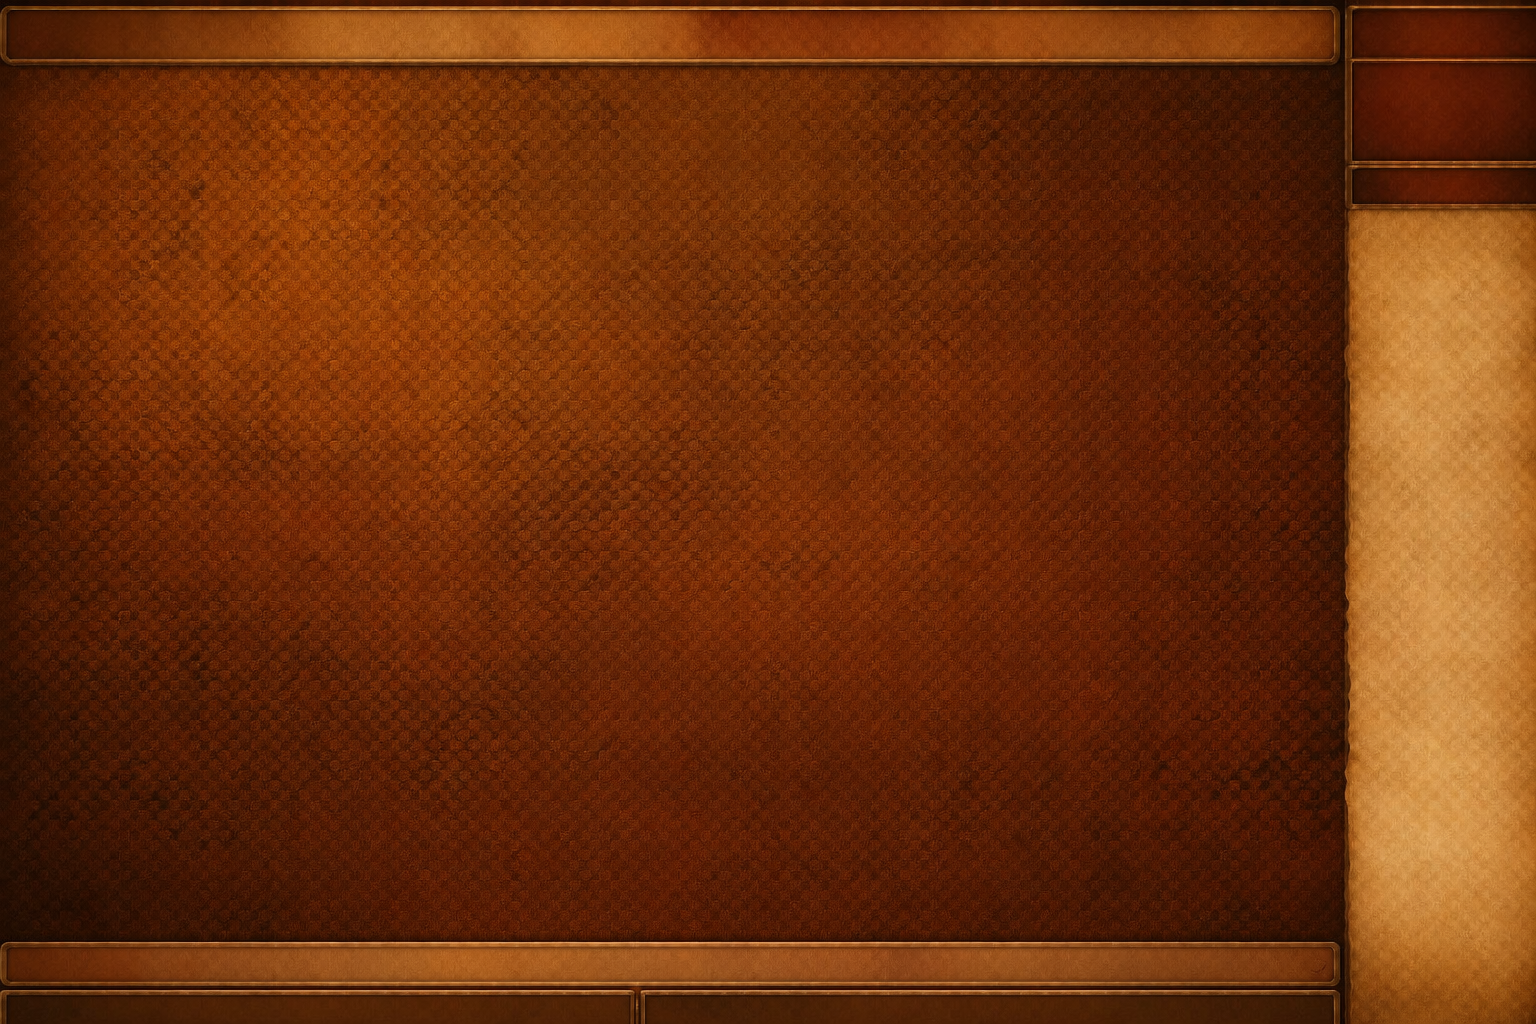
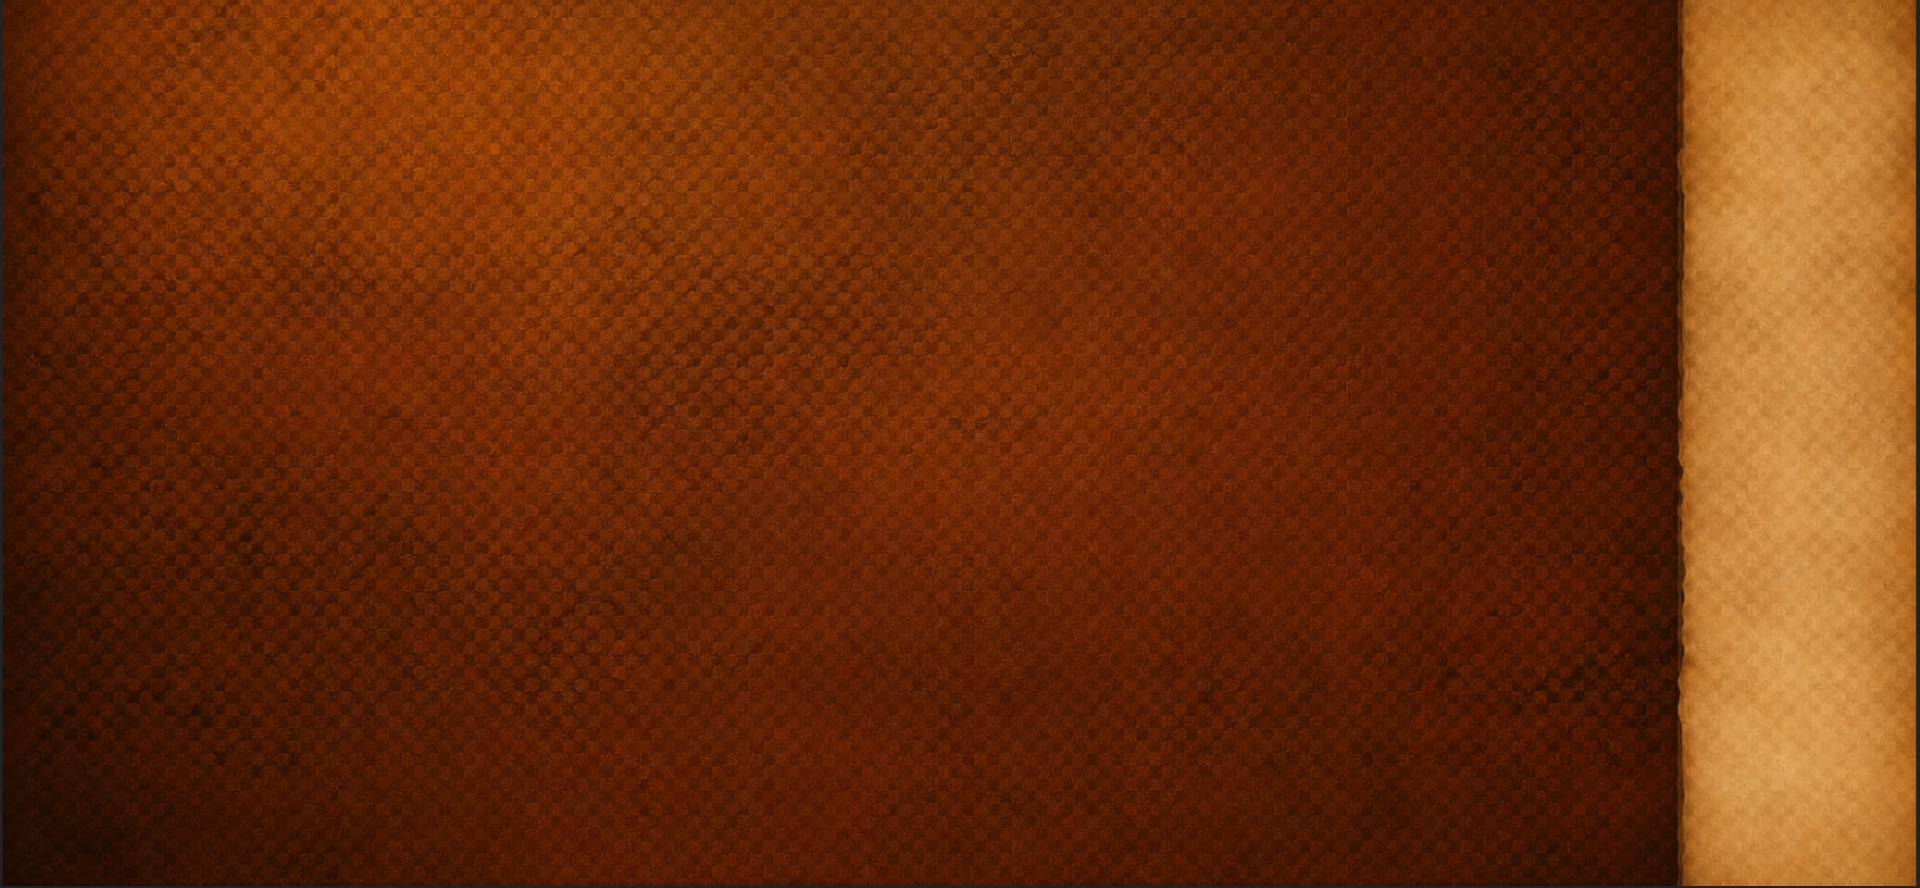
changement image fond et style d'écriture

diff --git a/index.html b/index.html
@@ -8,24 +8,31 @@
 <link href="https://fonts.googleapis.com/css2?family=Cinzel+Decorative:wght@700;900&family=Cinzel:wght@400;600;700&family=Lora:ital,wght@0,400;0,600;1,400&display=swap" rel="stylesheet">
 <style>
 
+
+
+
+
+
+
+
 .divider{text-align:center;color:var(--clay);font-family:'Cinzel',serif;font-size:10px;letter-spacing:.3em;text-transform:uppercase;position:relative;margin:14px 0;}
 .divider::before,.divider::after{content:'';position:absolute;top:50%;width:38%;height:1px;background:var(--clay);opacity:.5;}
 .divider::before{left:0;}.divider::after{right:0;}
 
 :root {
   --ink: #0A0503; --bark: #1A0E08; --earth: #2A1408; --clay: #5C3018; 
-  --mud: #B6865D; --sand: #E6C280; --gold: #E8C04A; --gold-light: #F5D878; 
+  --mud: #B6865D; --sand: #E6C280; --gold: #E8C04A; --gold-light: #F5D878; --gold-dark: #A0720A;
   --amber: #C87820; --cream: #FDF5E6; --terra: #C04818; --terra-light: #E05820;
   --board-bg: #C49A6C; --board-line: #4A2B18;
 }
-*{margin:0;padding:0;box-sizing:border-box;}
-html,body{width:100%;height:100%;overflow:hidden;font-family:'Lora',Georgia,serif;background:var(--ink);color:var(--cream);-webkit-tap-highlight-color:transparent;}
+*{margin:0;padding:0;/*! box-sizing:border-box; */}
+html,body{width:100%;height:100%;overflow:hidden;/*! font-family:'Lora',Georgia,serif; */background:var(--ink);color:var(--cream);-webkit-tap-highlight-color:transparent;}
 
 /* LOOY WuTT FI ? DEMAL NAAFILA JI !!! */ 
 
 
 body {
-  background-image: url('fond_yote.png'); 
+  background-image: url('/fond_yote.png?t=1777650477174'); 
   background-size: 100% 100%; 
   background-position: center;
   background-attachment: fixed;
@@ -54,7 +61,7 @@ body {
   margin-top: -15px; 
 }
 .action-bar {
-  margin-bottom: -15px;
+  margin-bottom: 5px;
 }
 
 .chat-msg .txt {
@@ -75,7 +82,7 @@ body::before{content:'';position:fixed;inset:0;background:repeating-linear-gradi
   inset: 0;
   width: 100vw;
   height: 100vh;
-  background-image: linear-gradient(rgba(0, 0, 0, 0.4), rgba(0, 0, 0, 0.6)), url('fond_accueil.jpeg') !important; 
+  background-image: linear-gradient(rgba(0, 0, 0, 0.4), rgba(0, 0, 0, 0.6)), url('/fond_accueil.jpeg') !important; 
   background-size: cover;
   background-position: center;
   z-index: 9999; 
@@ -171,16 +178,16 @@ body::before{content:'';position:fixed;inset:0;background:repeating-linear-gradi
 
 #s-game{flex-direction:row!important;align-items:stretch!important;justify-content:flex-start!important;overflow:hidden;padding:0; background:radial-gradient(ellipse at 50% 50%, #7A4B3A 0%, #2E1A0E 100%);}
 .game-main{flex:1;display:flex;flex-direction:column;align-items:center;justify-content:space-between;padding:10px 10px 12px;min-width:0;overflow:hidden;}
-.game-sidebar{width:260px;background:rgba(26,14,8,0.85);border-left:2px solid var(--clay);display:flex;flex-direction:column;flex-shrink:0;box-shadow:-5px 0 20px rgba(0,0,0,.5);}
+.game-sidebar{width:243px;/*! background:rgba(26,14,8,0.85); */border-left:2px solid var(--clay);display:flex;flex-direction:column;flex-shrink:0;box-shadow:-5px 0 20px rgba(0,0,0,.5);}
 @media(max-width:680px){.game-sidebar{display:none;}}
 
-.player-bar{width:100%;display:flex;align-items:center;gap:10px;padding:8px 12px;border:1px solid var(--clay);background:rgba(0,0,0,.3);transition:border-color .3s,background .3s;flex-shrink:0;}
-.player-bar.active{border-color:var(--gold);background:rgba(232,192,74,.1);}
+.player-bar{width:100%;display:flex;align-items:center;gap:10px;padding:6px 12px;/*! border:1px solid var(--clay); */background:rgba(0,0,0,.3);transition:border-color .3s,background .3s;flex-shrink:0;}
+.player-bar.active{border-color:var(--gold);/*! background:rgb(0, 0, 0); */}
 .p-icon{width:32px;height:32px;display:flex;align-items:center;justify-content:center;flex-shrink:0;}
 .p-name{font-family:'Cinzel',serif;font-size:14px;font-weight:700;color:#FFFFFF;flex:1;overflow:hidden;text-overflow:ellipsis;white-space:nowrap;text-shadow:0 1px 3px rgba(0,0,0,.8);}
 .player-bar.active .p-name{color:var(--gold-light);text-shadow:0 0 10px rgba(232,192,74,.4);}
 .p-meta{font-size:12px;color:#E8D0A0;font-weight:600;text-shadow:0 1px 2px rgba(0,0,0,.9);}
-.p-score{font-family:'Cinzel Decorative',serif;font-size:26px;font-weight:900;color:var(--gold);min-width:32px;text-align:right;}
+.p-score{font-family:'Cinzel Decorative',serif;font-size:26px;font-weight:900;color:var(--gold);min-width:32px;text-align:right; color: #F9AC00;}
 
 .board-wrap{flex:1;display:flex;align-items:center;justify-content:center;width:100%;position:relative;}
 .board{display:grid;grid-template-columns:repeat(5,var(--cs,66px));gap:2px;background:var(--board-line);border:6px solid var(--board-line);box-shadow:0 15px 40px rgba(0,0,0,.7);border-radius:2px;}
@@ -206,34 +213,34 @@ body::before{content:'';position:fixed;inset:0;background:repeating-linear-gradi
 .pp.c1{color:#FDF5E6;}
 
 .status-bar{font-family:'Cinzel',serif;font-size:12px;letter-spacing:.12em;text-transform:uppercase;color:var(--sand);text-align:center;padding:5px 8px;min-height:28px;flex-shrink:0;}
-.status-bar .hl{color:var(--gold);}
+.status-bar .hl{color:#FFBF00;font-weight: bold;}
 .bonus-bar{width:100%;padding:8px 12px;background:rgba(192,72,24,.35);border:2px solid var(--terra-light);color:#FFFFFF;font-family:'Cinzel',serif;font-size:12px;font-weight:700;letter-spacing:.15em;text-transform:uppercase;text-align:center;animation:bb 1s ease-in-out infinite;display:none;flex-shrink:0;text-shadow:0 1px 3px rgba(0,0,0,.8);}
 .bonus-bar.show{display:block;}
 @keyframes bb{0%,100%{opacity:.8;}50%{opacity:1;}}
 .action-bar{display:flex;gap:8px;width:100%;flex-shrink:0;}
-.act-btn{flex:1;padding:10px 6px;background:rgba(0,0,0,.2);border:1px solid var(--clay);color:var(--sand);font-family:'Cinzel',serif;font-size:11px;font-weight:bold;letter-spacing:.12em;text-transform:uppercase;cursor:pointer;transition:all .2s;}
+.act-btn{flex:1;padding:10px 6px;background:#0B132B;border:1px solid #FF5E06;color:var(--sand);font-family:'Cinzel',serif;font-size:11px;font-weight:bold;letter-spacing:.12em;text-transform:uppercase;cursor:pointer;transition:all .2s;}
 .act-btn:hover{border-color:var(--gold);color:var(--gold-light);}
-.act-btn.danger{border-color:rgba(192,72,24,.4);color:var(--terra-light);}
+.act-btn.danger{border-color:rgba(192,72,24,.4);color:#D41313;}
 .act-btn.danger:hover{border-color:var(--terra-light);color:white;background:rgba(192,72,24,.2);}
 .act-btn:disabled{opacity:.4;cursor:not-allowed;border-color:transparent;}
 
-.sb-hdr{padding:14px 16px;border-bottom:1px solid var(--clay);font-family:'Cinzel',serif;font-size:12px;letter-spacing:.2em;text-transform:uppercase;color:var(--gold);background:rgba(0,0,0,.2);}
-.sb-scores{display:flex;padding:16px;gap:10px;border-bottom:1px solid var(--clay);background:rgba(0,0,0,.3);}
-.sb-sp{flex:1;text-align:center;}
-.sb-sn{font-family:'Cinzel',serif;font-size:10px;letter-spacing:.15em;text-transform:uppercase;color:var(--sand);margin-bottom:3px;overflow:hidden;text-overflow:ellipsis;white-space:nowrap;}
-.sb-spts{font-family:'Cinzel Decorative',serif;font-size:42px;font-weight:900;color:var(--gold);line-height:1;}
-.sb-sdiv{display:flex;align-items:center;font-family:'Cinzel',serif;font-size:18px;color:var(--clay);padding:0 3px;}
+.sb-hdr{padding:14px 90px;/*! border-bottom:1px solid var(--clay); */font-family:'Cinzel',serif;font-size:25px;letter-spacing:.2em;text-transform:uppercase;color:#F4B702;background:#2A1408; /*! color: var(--gold-dark); */ font-weight: bold;}
+.sb-scores{display:flex;padding:0px;/*! gap:0px; */border-bottom:1px solid var(--clay);background:rgba(0,0,0,.3);}
+.sb-sp{flex:1;text-align:center;background: #2A1408;}
+.sb-sn{font-family:'Cinzel',serif;/*! font-size:10px; *//*! letter-spacing:.15em; */color:#F6A105;margin-bottom:20px;overflow:hidden;text-overflow:ellipsis;white-space:nowrap;}
+.sb-spts{font-family:'Cinzel Decorative',serif;font-size:42px;font-weight:900;color:var(--gold);line-height:1; color: #FFB50E;/*! font-weight: bold; */}
+.sb-sdiv{display:flex;align-items:center;font-family:'Cinzel',serif;font-size:18px;color:var(--clay);/*! padding:0 3px; */}
 .sb-hist{padding:10px 14px;border-bottom:1px solid var(--clay);max-height:120px;overflow-y:auto;}
-.sb-hr{display:flex;justify-content:space-between;align-items:center;padding:4px 0;border-bottom:1px solid rgba(92,48,24,.3);font-size:12px;color:var(--mud);}
-.sb-ht{color:var(--gold);font-style:italic;font-family:'Cinzel',serif;font-size:11px;}
+.sb-hr{display:flex;justify-content:space-between;align-items:center;padding:4px 0;border-bottom:1px solid rgba(229, 92, 10, 0.3);/*! font-size:12px; */color:#FFF;}
+.sb-ht{color:#FFF;font-style:italic;/*! font-family:'Cinzel',serif; */font-size:13px;}
 .chat-msgs{flex:1;overflow-y:auto;padding:12px;display:flex;flex-direction:column;gap:6px;}
-.chat-msg{font-size:14px;line-height:1.45;}
-.chat-msg .who{color:var(--gold);font-weight:700;font-size:12px;}
+.chat-msg{font-size:18px;line-height:1.45;}
+.chat-msg .who{color:#FFF;/*! font-weight:700; */font-size:12px;font-weight: bold;}
 .chat-msg .txt{color:#FFFFFF;} 
 .chat-msg.sys .txt{color:var(--sand);font-style:italic;font-size:12px;}
-.chat-bot{display:flex;border-top:1px solid var(--clay);background:rgba(0,0,0,.2);}
-.chat-in{flex:1;padding:12px 14px;background:transparent;border:none;color:var(--cream);font-family:'Lora',serif;font-size:15px;outline:none;}
-.chat-send{padding:10px 16px;background:transparent;border:none;border-left:1px solid var(--clay);color:var(--gold);cursor:pointer;font-size:18px;transition:color .2s;}
+.chat-bot{display:flex;/*! border-top:1px solid var(--clay); *//*! background:rgba(0,0,0,.2); */}
+.chat-in{/*! flex:1; */padding:12px 14px;background:#2A1408;border:#e90e0e;color:#F4A40C;font-family:'Lora',serif;/*! font-size:15px; */outline:none;font-weight: bold;}
+.chat-send{padding:10px 16px;background:#6a0303;border:none;border-left:1px solid var(--clay);color:var(--gold);cursor:pointer;font-size:18px;transition:color .2s;}
 .chat-send:hover{color:var(--gold-light);}
 
 .mob-chat-btn{position:fixed;bottom:14px;right:14px;width:48px;height:48px;border-radius:50%;background:var(--gold);border:none;color:var(--ink);font-size:20px;cursor:pointer;display:none;align-items:center;justify-content:center;box-shadow:0 4px 16px rgba(0,0,0,.5);z-index:50;}
@@ -248,8 +255,8 @@ body::before{content:'';position:fixed;inset:0;background:repeating-linear-gradi
 .overlay.show{display:flex;}
 .modal{background:var(--bark);border:1px solid var(--clay);padding:34px 28px;max-width:380px;width:100%;text-align:center;position:relative;}
 .modal::before{content:'';position:absolute;top:0;left:0;right:0;height:3px;background:linear-gradient(90deg,var(--terra),var(--gold),var(--terra));}
-.mo-word{font-family:'Cinzel Decorative',serif;font-size:30px;font-weight:900;color:var(--gold);letter-spacing:.1em;margin-bottom:6px;min-height:40px;}
-.mo-pts{font-family:'Cinzel Decorative',serif;font-size:72px;font-weight:900;color:var(--terra);line-height:1;margin:6px 0;}
+.mo-word{font-family:'Cinzel Decorative',serif;font-size:30px;font-weight:900;color:var(--gold);letter-spacing:.1em;margin-bottom:6px;min-height:40px; color: var(--gold-dark);}
+.mo-pts{font-family:'Cinzel Decorative',serif;font-size:72px;font-weight:900;color:var(--terra);line-height:1;margin:6px 0;color: var(--terra); }
 .mo-ptsl{font-family:'Cinzel',serif;font-size:11px;letter-spacing:.2em;text-transform:uppercase;color:var(--mud);margin-bottom:16px;}
 .mo-winner{font-family:'Cinzel',serif;font-size:17px;color:var(--cream);margin-bottom:5px;}
 .mo-winner span{color:var(--gold);font-weight:700;}
@@ -292,6 +299,15 @@ body::before{content:'';position:fixed;inset:0;background:repeating-linear-gradi
 .disco-banner{position:fixed;top:0;left:0;right:0;padding:12px 16px;background:rgba(192,72,24,.95);border-bottom:2px solid var(--terra-light);color:white;font-family:'Cinzel',serif;font-size:12px;letter-spacing:.15em;text-transform:uppercase;text-align:center;z-index:300;display:none;}
 .disco-banner.show{display:block;}
 .disco-countdown{font-size:18px;font-weight:900;color:var(--gold-light);margin-left:8px;}
+
+
+
+
+
+
+
+
+
 </style>
 <link rel="manifest" href="/manifest.webmanifest">
 <meta name="theme-color" content="#000000">
@@ -311,7 +327,7 @@ body::before{content:'';position:fixed;inset:0;background:repeating-linear-gradi
     <div class="home-tagline">Jeu de stratégie sénégalais</div>
     <button id="btn-home-play" class="home-btn fill">Jouer</button>
     <button id="btn-home-rules" class="home-btn">Règles du jeu</button>
-    <div class="home-signature">By Abdou D.</div>
+    <div class="home-signature">By Abdou</div>
   </div>
 </div>
 
@@ -540,7 +556,6 @@ body::before{content:'';position:fixed;inset:0;background:repeating-linear-gradi
       <p style="margin-bottom:10px"><strong style="color:var(--gold)">Votre tour :</strong> Si vous avez des pions en réserve, vous <em>devez</em> placer un pion sur une case vide — sauf si vous pouvez capturer. Si votre réserve est vide, vous déplacez un pion orthogonalement.</p>
       <p style="margin-bottom:10px"><strong style="color:var(--gold)">Capture :</strong> Sautez orthogonalement par-dessus un pion adverse vers la case vide derrière. Puis retirez un 2e pion adverse de votre choix (bonus).</p>
       <p style="margin-bottom:10px"><strong style="color:var(--gold)">Victoire :</strong> L'adversaire n'a plus de pions, ou ne peut plus jouer (réserve vide + bloqué).</p>
-      <p style="margin-bottom:10px"><strong style="color:var(--gold)">Nul automatique :</strong> Quand les deux joueurs n'ont plus que 4 pions chacun.</p>
       <hr style="border-color:var(--clay);margin:14px 0">
       <p style="margin-bottom:8px"><strong style="color:var(--gold)">Système de points (série, 1er à 3 pts) :</strong></p>
       <table style="width:100%;border-collapse:collapse;font-size:12px;margin-bottom:12px">
@@ -629,7 +644,7 @@ function scoreGame(g,loser,lt){
     return{pts:1,type:''};
   }
 }
-function autoDraw(g){return countP(g,0)===4&&countP(g,1)===4;}
+function autoDraw(g){return false;}
 
 function mkGame(first){
   return{board:Array(25).fill(null),res:[12,12],cur:first,phase:'play',sel:-1,bon:null,capBy:[0,0],drawOff:-1,result:null};
@@ -1167,9 +1182,8 @@ function applyBonus(cell){
 
 function afterMove(action){
   const g=A.game;
-  if(autoDraw(g)){
-    if(A.role==='host' || A.mode==='local'){endDraw();}
-    else{pushMsg('action',{action});updateUI();}
+  if(autoDraw(g) && A.mode === 'local'){
+    endDraw();
     return;
   }
   const lt=losesNow(g);
@@ -1334,6 +1348,12 @@ function doStartNewSeries(first){
 
 function offerDraw(){
   if(!A.game||A.game.drawOff>=0)return;
+  
+  if(A.mode === 'local'){
+    endDraw();
+    return;
+  }
+  
   A.game.drawOff=A.myIdx;
   pushMsg('draw_offer',{from:A.myIdx});
   toast('Proposition envoyée');
@@ -1787,7 +1807,7 @@ function playBot() {
   }
   // En toute fin de partie
   if (totalPiecesOnBoard <= 6 && totalInReserves === 0) {
-      DEPTH = 11; 
+      DEPTH = 9; 
   }  
   
 
@@ -1896,3 +1916,4 @@ $('btn-fc-quit').addEventListener('click', quitGame);
 </script>
 </body>
 </html>
+
